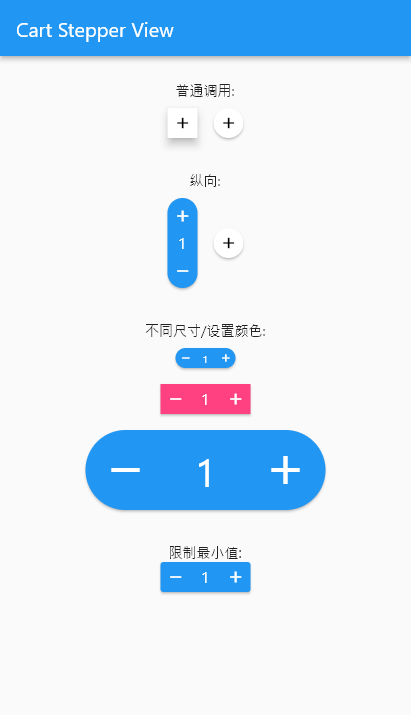
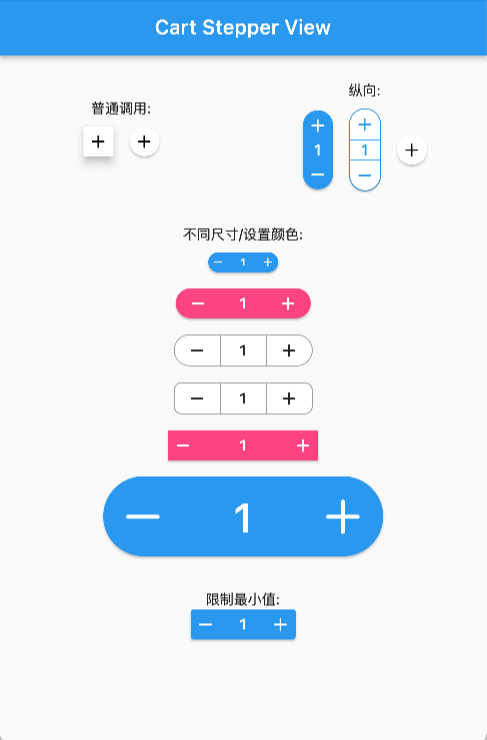
add border

diff --git a/lib/src/cart_stepper.dart b/lib/src/cart_stepper.dart
@@ -7,6 +7,8 @@ import 'package:flutter/material.dart';
 
 import 'stepper_style.dart';
 
+const _animateDuration = Duration(milliseconds: 300);
+
 const _textStyle = TextStyle(
   fontWeight: FontWeight.w400,
   fontFamily: "Quicksand",
@@ -109,8 +111,6 @@ class _CartStepperState<VM extends num> extends State<CartStepper<VM>> {
   }
 
   void _buttonSetValue(VM newValue) {
-    Feedback.forTap(context);
-
     _setValue(newValue);
   }
 
@@ -128,10 +128,15 @@ class _CartStepperState<VM extends num> extends State<CartStepper<VM>> {
           color:
               isExpanded ? style.activeForegroundColor : style.foregroundColor,
         );
+    final borderRadius = BorderRadius.all(
+      style.radius ?? Radius.circular(widget.size),
+    );
 
     List<Widget> childs = [
-      GestureDetector(
-        behavior: HitTestBehavior.opaque,
+      InkResponse(
+        radius: widget.size,
+        borderRadius: borderRadius,
+        highlightShape: BoxShape.rectangle,
         onTap: () {
           _buttonSetValue((widget._value + widget._stepper) as VM);
         },
@@ -201,8 +206,10 @@ class _CartStepperState<VM extends num> extends State<CartStepper<VM>> {
         ),
       );
       childs.add(
-        GestureDetector(
-          behavior: HitTestBehavior.opaque,
+        InkResponse(
+          radius: widget.size,
+          borderRadius: borderRadius,
+          highlightShape: BoxShape.rectangle,
           onTap: () {
             _buttonSetValue(math.max((widget._value - widget._stepper),
                     VM is int ? defaultValue.toInt() : defaultValue.toDouble())
@@ -223,33 +230,80 @@ class _CartStepperState<VM extends num> extends State<CartStepper<VM>> {
           ),
         ),
       );
+      if (style.border != null) {
+        if (isVertical) {
+          childs[0] = Container(
+            decoration: BoxDecoration(
+              border: Border(
+                bottom: BorderSide(color: style.border!.top.color),
+              ),
+            ),
+            child: childs[0],
+          );
+          childs[2] = Container(
+            decoration: BoxDecoration(
+              border: Border(
+                top: BorderSide(color: style.border!.top.color),
+              ),
+            ),
+            child: childs[2],
+          );
+        } else {
+          childs[0] = Container(
+            decoration: BoxDecoration(
+              border: Border(
+                left: BorderSide(color: style.border!.top.color),
+              ),
+            ),
+            child: childs[0],
+          );
+          childs[2] = Container(
+            decoration: BoxDecoration(
+              border: Border(
+                right: BorderSide(color: style.border!.top.color),
+              ),
+            ),
+            child: childs[2],
+          );
+        }
+      }
     }
 
+    Widget body = AnimatedPhysicalModel(
+      duration: _animateDuration,
+      curve: Curves.easeIn,
+      shape: style.shape,
+      borderRadius: borderRadius,
+      shadowColor: style.shadowColor ?? const Color.fromARGB(255, 0, 0, 0),
+      color: isExpanded ? style.activeBackgroundColor : style.backgroundColor,
+      elevation: widget.elevation ?? style.elevation,
+      child: isVertical
+          ? Column(
+              mainAxisSize: MainAxisSize.min,
+              children: childs,
+            )
+          : Row(
+              mainAxisSize: MainAxisSize.min,
+              children: childs.reversed.toList(),
+            ),
+    );
+
+    if (style.border != null) {
+      body = AnimatedContainer(
+        duration: _animateDuration,
+        curve: Curves.easeIn,
+        decoration: BoxDecoration(
+          border: style.border,
+          borderRadius: borderRadius,
+        ),
+        child: body,
+      );
+    }
     return DefaultTextStyle(
       style: textStyle,
       child: IconTheme.merge(
         data: style.iconTheme.copyWith(size: widget.size * .6),
-        child: AnimatedPhysicalModel(
-          duration: const Duration(milliseconds: 300),
-          curve: Curves.easeIn,
-          shape: style.shape,
-          borderRadius: BorderRadius.all(
-            style.radius ?? Radius.circular(widget.size),
-          ),
-          shadowColor: style.shadowColor ?? const Color.fromARGB(255, 0, 0, 0),
-          color:
-              isExpanded ? style.activeBackgroundColor : style.backgroundColor,
-          elevation: widget.elevation ?? style.elevation,
-          child: isVertical
-              ? Column(
-                  mainAxisSize: MainAxisSize.min,
-                  children: childs,
-                )
-              : Row(
-                  mainAxisSize: MainAxisSize.min,
-                  children: childs.reversed.toList(),
-                ),
-        ),
+        child: body,
       ),
     );
   }

diff --git a/example/lib/main.dart b/example/lib/main.dart
@@ -54,12 +54,6 @@ class _MyHomePageState extends State<MyHomePage> {
       body: Center(
         child: ListView(
           children: <Widget>[
-            Center(
-              child: Padding(
-                padding: const EdgeInsets.symmetric(vertical: 20),
-                child: Text('Flutter: ${Platform.version}'),
-              ),
-            ),
             Row(
               children: [
                 Expanded(
@@ -135,6 +129,25 @@ class _MyHomePageState extends State<MyHomePage> {
                           ),
                           Padding(
                             padding: const EdgeInsets.all(8.0),
+                            child: CartStepperInt(
+                              value: _counter,
+                              axis: Axis.vertical,
+                              style: CartStepperTheme.of(context).copyWith(
+                                activeBackgroundColor: Colors.white,
+                                activeForegroundColor: Colors.blue,
+                                border: Border.all(
+                                  color: Colors.blue,
+                                ),
+                              ),
+                              didChangeCount: (count) {
+                                setState(() {
+                                  _counter = count;
+                                });
+                              },
+                            ),
+                          ),
+                          Padding(
+                            padding: const EdgeInsets.all(8.0),
                             child: CartStepperDouble(
                               value: _dCounter,
                               stepper: 0.01,
@@ -185,6 +198,51 @@ class _MyHomePageState extends State<MyHomePage> {
                         foregroundColor: Colors.red,
                         activeForegroundColor: Colors.white,
                         activeBackgroundColor: Colors.pinkAccent,
+                        buttonAspectRatio: 1.5,
+                      ),
+                      didChangeCount: (count) {
+                        setState(() {
+                          _counter = count;
+                        });
+                      },
+                    ),
+                  ),
+                ),
+                Padding(
+                  padding: const EdgeInsets.all(8),
+                  child: Center(
+                    child: CartStepperInt(
+                      value: _counter,
+                      size: 30,
+                      style: CartStepperStyle(
+                        foregroundColor: Colors.black87,
+                        activeForegroundColor: Colors.black87,
+                        activeBackgroundColor: Colors.white,
+                        border: Border.all(color: Colors.grey),
+                        elevation: 0,
+                        buttonAspectRatio: 1.5,
+                      ),
+                      didChangeCount: (count) {
+                        setState(() {
+                          _counter = count;
+                        });
+                      },
+                    ),
+                  ),
+                ),
+                Padding(
+                  padding: const EdgeInsets.all(8),
+                  child: Center(
+                    child: CartStepperInt(
+                      value: _counter,
+                      size: 30,
+                      style: CartStepperStyle(
+                        foregroundColor: Colors.black87,
+                        activeForegroundColor: Colors.black87,
+                        activeBackgroundColor: Colors.white,
+                        border: Border.all(color: Colors.grey),
+                        radius: const Radius.circular(8),
+                        elevation: 0,
                         buttonAspectRatio: 1.5,
                       ),
                       didChangeCount: (count) {

diff --git a/lib/src/stepper_style.dart b/lib/src/stepper_style.dart
@@ -47,6 +47,10 @@ class CartStepperStyle {
   /// Border radius of shape. 形状中的圆角值
   final Radius? radius;
 
+  /// Add a border around the shape use AnimatedContainer.
+  /// recommanded with out elevation.
+  final BoxBorder? border;
+
   /// shadow color 阴影颜色
   final Color? shadowColor;
 
@@ -69,6 +73,7 @@ class CartStepperStyle {
     this.backgroundColor = Colors.white,
     this.shape = BoxShape.rectangle,
     this.radius,
+    this.border,
     this.shadowColor,
     this.textStyle,
     this.iconTheme = const IconThemeData(),
@@ -82,6 +87,7 @@ class CartStepperStyle {
     ThemeData theme, {
     BoxShape shape = BoxShape.rectangle,
     Radius? radius,
+    BoxBorder? border,
     IconThemeData? iconTheme,
     IconData? iconPlus,
     IconData? iconMinus,
@@ -92,6 +98,7 @@ class CartStepperStyle {
       theme.colorScheme,
       shape: shape,
       radius: radius,
+      border: border,
       textStyle: theme.textTheme.bodyText1,
       iconPlus: iconPlus,
       iconMinus: iconMinus,
@@ -103,6 +110,7 @@ class CartStepperStyle {
     ColorScheme colorScheme, {
     BoxShape shape = BoxShape.rectangle,
     Radius? radius,
+    BoxBorder? border,
     TextStyle? textStyle,
     IconThemeData? iconTheme,
     IconData? iconPlus,
@@ -118,6 +126,7 @@ class CartStepperStyle {
       shadowColor: colorScheme.shadow,
       shape: shape,
       radius: radius,
+      border: border,
       textStyle: textStyle,
       iconTheme: iconTheme ?? const IconThemeData(),
       iconPlus: iconPlus,
@@ -133,6 +142,8 @@ class CartStepperStyle {
     Color? backgroundColor,
     BoxShape? shape,
     Radius? radius,
+    BoxBorder? border,
+    bool noBorder = false,
     Color? shadowColor,
     TextStyle? textStyle,
     IconThemeData? iconTheme,
@@ -150,6 +161,7 @@ class CartStepperStyle {
       backgroundColor: backgroundColor ?? this.backgroundColor,
       shape: shape ?? this.shape,
       radius: radius ?? this.radius,
+      border: noBorder ? null : (border ?? this.border),
       shadowColor: shadowColor ?? this.shadowColor,
       textStyle: textStyle ?? this.textStyle,
       iconTheme: iconTheme ?? this.iconTheme,

diff --git a/README.md b/README.md
@@ -26,22 +26,29 @@ CartStepperStyle:
   - backgroundColor: Color, background color when counter == 0
   - shape: BoxShape,
   - radius: Radius, the borderRadius of this widget, default caculating a roundedRectAngle
+  - BoxBorder: Border of the Widget
   - shadowColor: Color
+  - textStyle,
+  - iconTheme = const IconThemeData(),
+  - iconPlus: IconData, customize the plus icon
+  - iconMinus: IconData, customize the minus icon
+  - buttonAspectRatio: plus & minux button's aspectRatio, default 1,
+  - elevation: Widget's elevation,
 
 ## Using
 Create a widget to show and modify a number:
 ```dart
 Widget _buildStepper() {
   return CartStepperInt(
-               count: _counter,
-               size: 30,
-               style: CartStepperStyle.fromTheme(Theme.of(context)).copyWith(activeForegroundColor: Colors.purple,)
-               didChangeCount: (count) {
-               setState(() {
-                _counter = count;
-               });
-             },
-          );
+        count: _counter,
+        size: 30,
+        style: CartStepperTheme.of(context).copyWith(activeForegroundColor: Colors.purple,)
+        didChangeCount: (count) {
+        setState(() {
+        _counter = count;
+        });
+      },
+  );
 }
 
 ```

diff --git a/CHANGELOG.md b/CHANGELOG.md
@@ -1,4 +1,9 @@
-## [3.0.3] - 2022/09/14
+## [4.0.0] - 2022/12/14
+* refactor buttons
+* add style.elevation
+* add button aspectRatio
+
+## [3.0.3] - 2022/12/01
 * refactor
 * Add custom Icon
 
